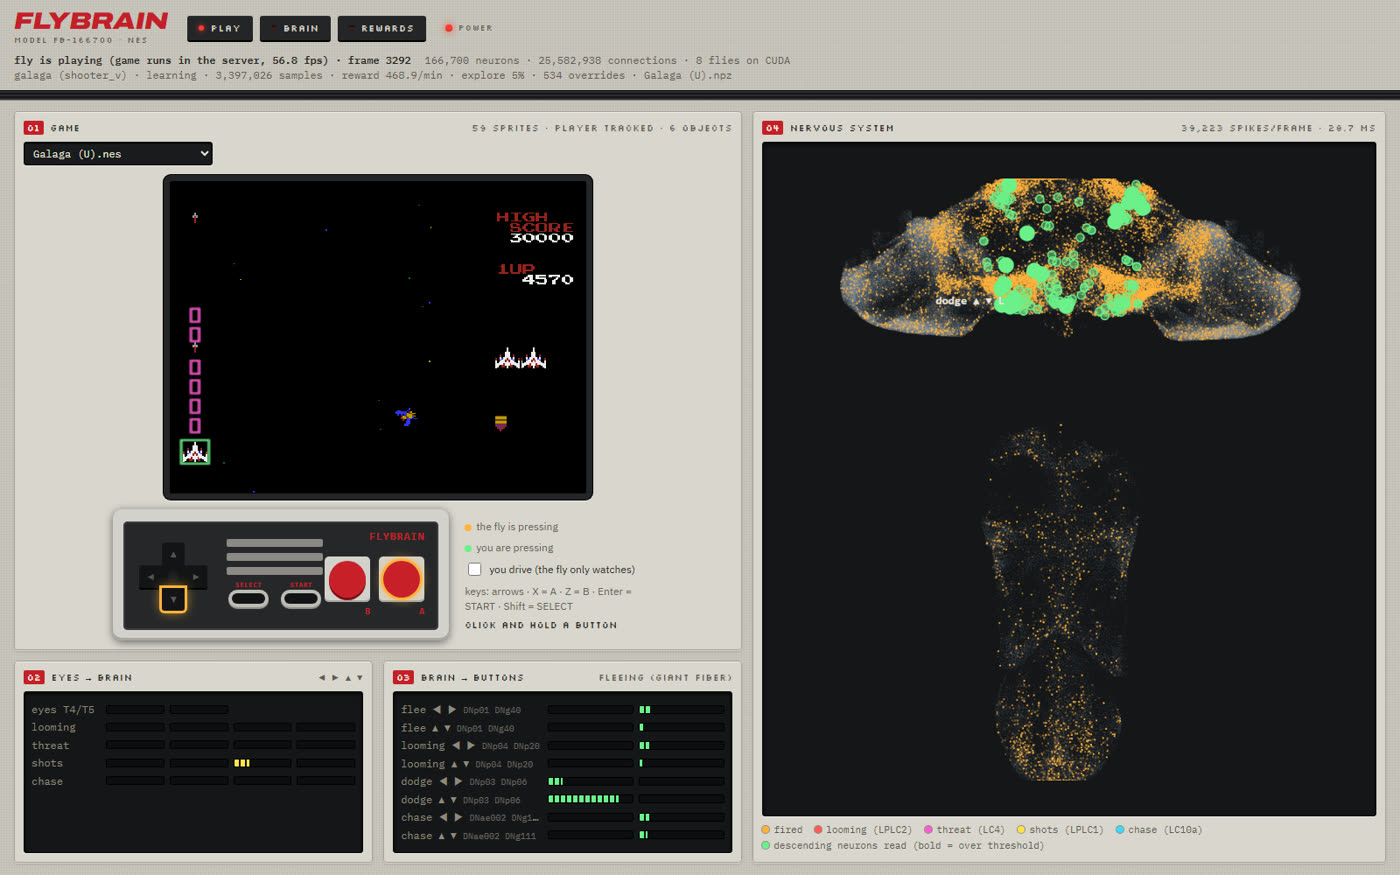
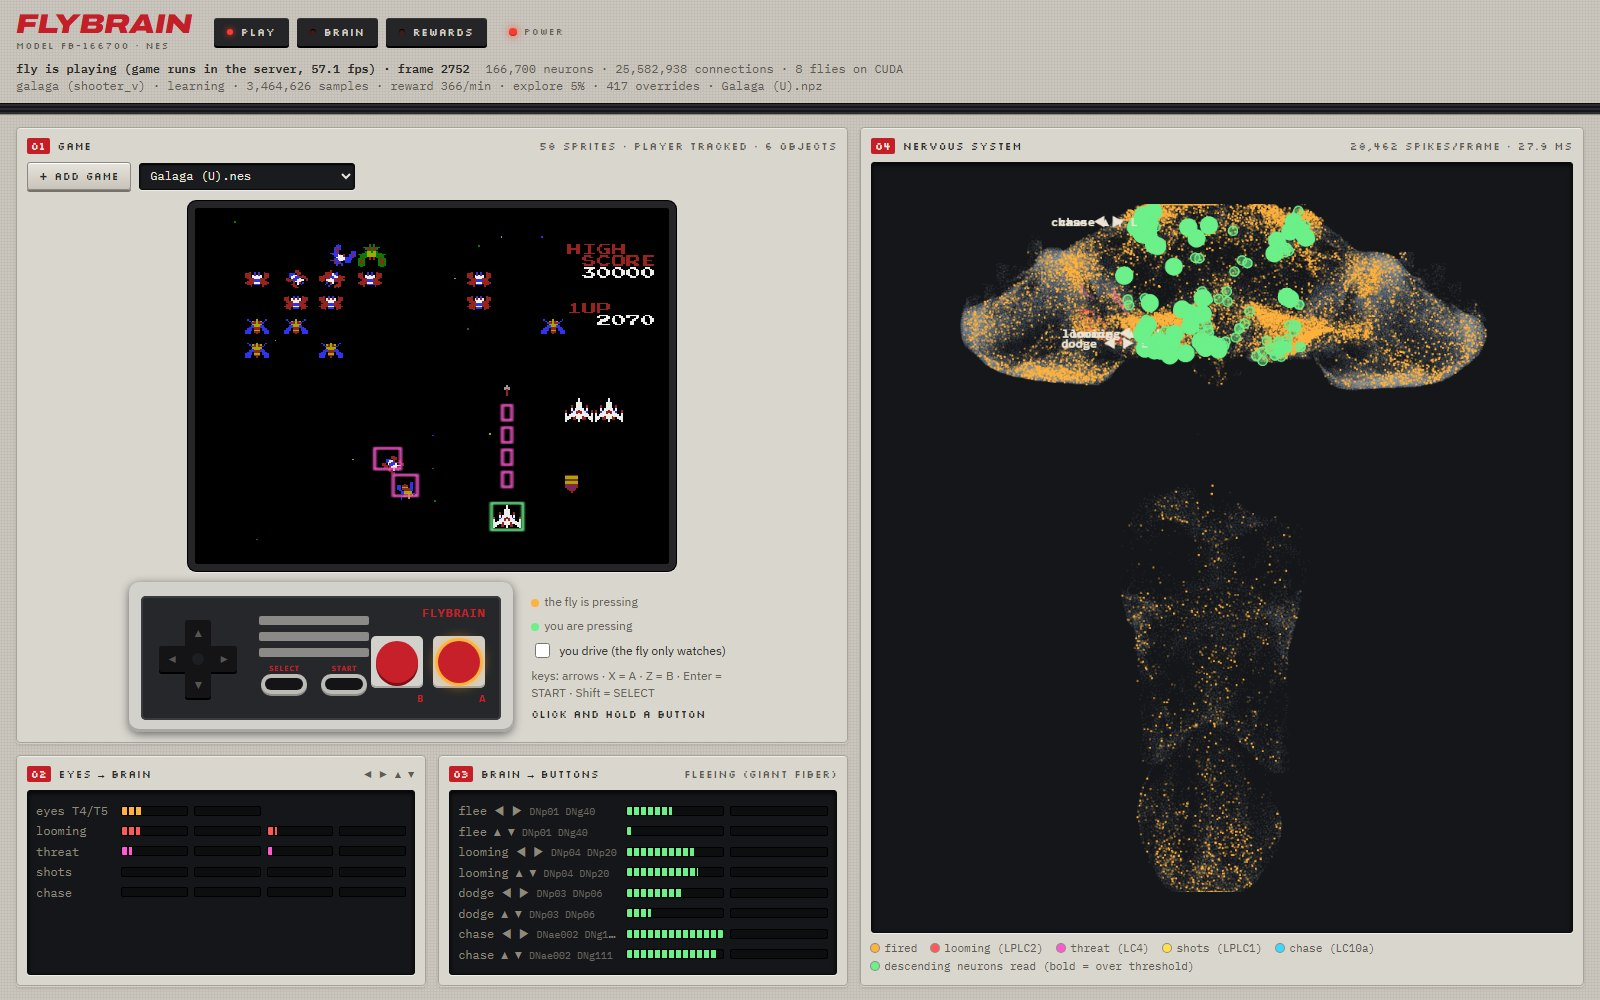
README: screenshots of every page
Fresh shots from the running app (Galaga): Play, a close-up of the controller
with the fly's press glowing, Brain with both eye maps lit, Rewards, and the
phone layout, each with a short explanation of what it shows.

diff --git a/README.md b/README.md
@@ -16,18 +16,76 @@ brain itself stays frozen: no training inside it.
 
 **No games are included.** You bring NES ROMs you own (see [Getting games](#getting-games)).
 
-![The Play page: the game on a TV, the NES controller, the fly's eyes and buttons, its nervous system firing](docs/play.jpg)
+## Screenshots
 
-## What you get
+All taken from the running app while the fly played Galaga.
 
-* **Play** (`http://127.0.0.1:8777/`): the game, an NES controller showing what the fly presses
-  (amber) and what you press (green), its eyes, its buttons and its whole nervous system firing.
-  Click the pad (or use the keyboard) to play along, or tick *you drive* to take over.
-* **Brain** (`/brain`): exactly what goes into the connectome each tick (the retina image, the
-  voltage into every T4/T5 cell) and the spikes that come back.
-* **Rewards** (`/rewards`): what the fly is rewarded and punished for, live. Change the weights,
-  how strongly each sense drives the brain, let it "taste" rewards, or add your own RAM rules.
-* The game runs inside the server, so it keeps playing when the tab is hidden or closed.
+### Play: the fly at the controls
+
+![The Play page: Galaga on a TV with the fly's ship tracked in green, the NES controller, the fly's eyes and buttons, and its whole nervous system firing](docs/play.jpg)
+
+The game on a TV; boxes show what the fly tracks (green: the ship it controls, pink: enemies and
+shots). Below it, **02 Eyes → brain** is how strongly each sense is driven and **03 Brain →
+buttons** is the descending neurons that press the pad. On the right, **04 Nervous system**: all
+166,700 neurons, amber where they fire this tick, green where the fly's output neurons are read.
+
+### The controller: see what the fly presses, or play along
+
+![The NES controller: the left arrow glows amber because the fly's neurons are pressing it](docs/controller.jpg)
+
+A button glows **amber** when the fly's neurons press it, **green** when you do. Click and hold
+(or use the keys: arrows, X = A, Z = B, Enter = START, Shift = SELECT) to press with it. A
+direction you hold beats the fly's opposite one; tick *you drive* and only your buttons count.
+
+<table>
+<tr>
+<td width="50%" valign="top">
+
+### Brain: what goes in, what comes out
+
+<a href="docs/brain.jpg"><img src="docs/brain.jpg" alt="The Brain page: game screen, the retina image given to the fly, voltage into its left and right T4/T5 motion detectors, everything injected this tick, spikes per cell type"></a>
+
+Exactly what the fly code hands to the connectome each tick: the retina image, the voltage into
+each of 13,581 T4/T5 motion-detector cells (colour = the direction it prefers), every input set,
+and the spikes per cell type that come back. Nothing on this page is simulated for show.
+
+</td>
+<td width="50%" valign="top">
+
+### Rewards: what the fly wants
+
+<a href="docs/rewards.jpg"><img src="docs/rewards.jpg" alt="The Rewards page: event weights with live counts, a caution tip, and the log of what the fly just felt"></a>
+
+Food (score), kills, relief, explore, danger, pain: weights you can change live, with what each
+paid in the last minute. The log shows what the fly just felt. Also: how strongly each sense
+drives the brain, "taste" (sweet/bitter neurons), and your own RAM rules.
+
+</td>
+</tr>
+</table>
+
+<table>
+<tr>
+<td width="34%" valign="top">
+
+### On a phone
+
+<img src="docs/mobile.jpg" alt="The Play page on a phone: the game, the controller and the status lines stacked">
+
+</td>
+<td width="66%" valign="top">
+
+### Also
+
+* The game runs **inside the server**, so it keeps playing when the tab is hidden or closed.
+* **+ Add game** puts a ROM you own into `roms/` from the page and switches to it.
+* Learning is saved **per game** and resumes next time.
+* Every page shares one look, built like 1985 console hardware: grey case, numbered modules,
+  dark screens for live data, segmented LED meters.
+
+</td>
+</tr>
+</table>
 
 ## Requirements
 
@@ -122,7 +180,7 @@ Learning is saved per game in `mesen/checkpoints/` (ignored by git) and resumes 
 | `flybrain/` | the connectome simulation (from [fly.ai](https://github.com/alextitonis/fly.ai)) |
 | `roms/` | your games (not in git) |
 | `tests/` | `python -m pytest tests -q` (no GPU, brain data or games needed) |
-| `docs/` | screenshot and demo videos |
+| `docs/` | screenshots, demo GIF and launch video |
 
 ## Credits
 
